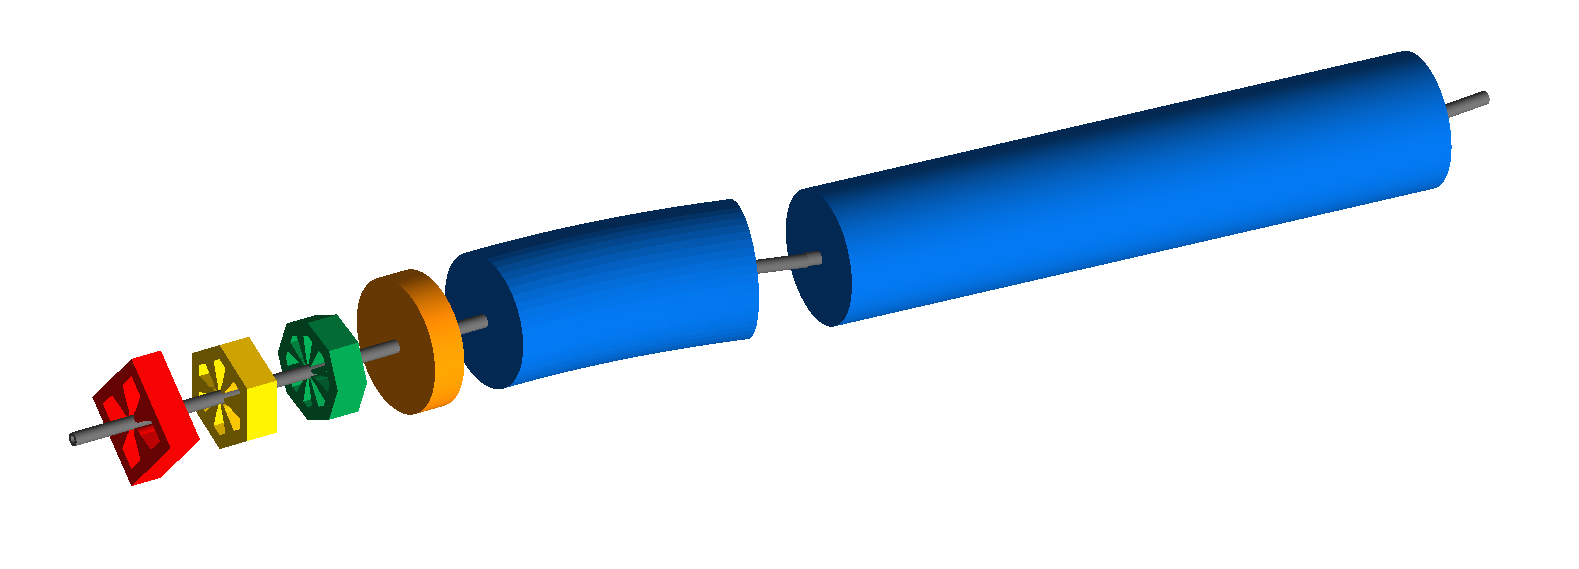
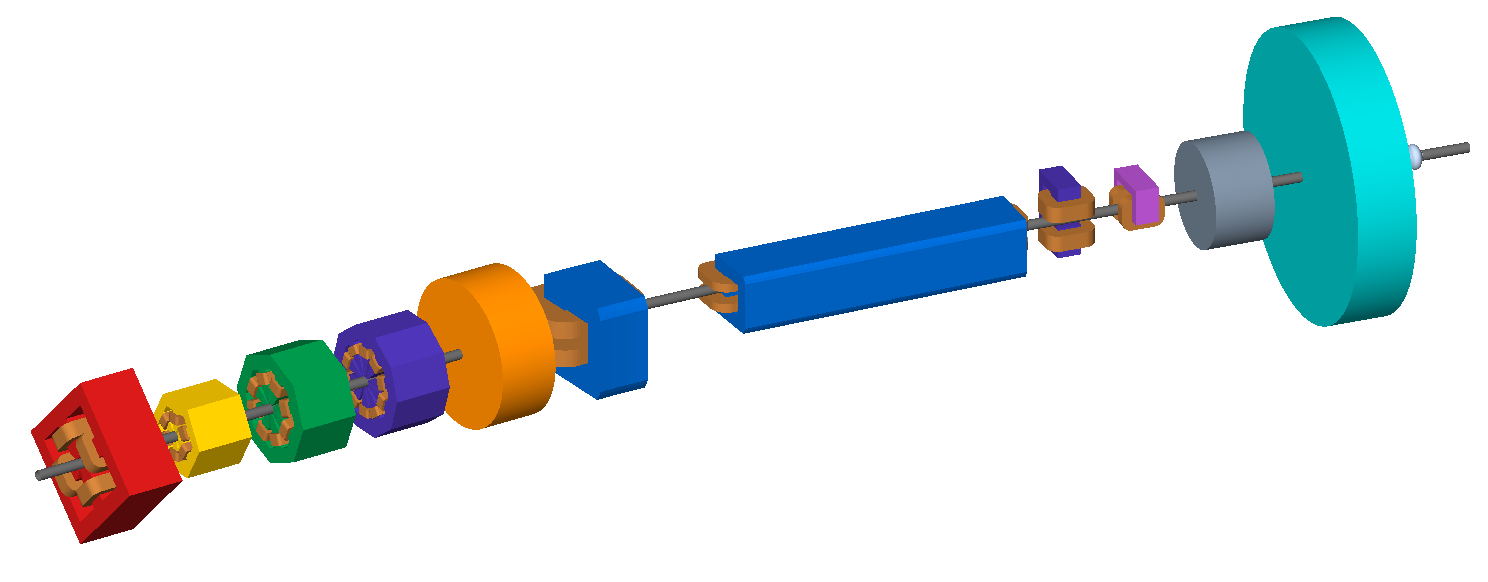
Update out of date images in manual given geometry changes.
Former-commit-id: ddec00dc49e6ac9d63db9aaa6c2def5b07b6e5d4

Changed region(s): [[0.0, 0.0299, 0.9892, 0.9262]]

diff --git a/examples/features/geometry/4_magnets/4_magnets.rst b/examples/features/geometry/4_magnets/4_magnets.rst
@@ -108,6 +108,9 @@ LHC cyrogenic magnet for dipoles and quadrupoles.  Given the two beam nature
 of the LHC, the magnet is either offset to the right or two the left dictating
 the 'active' beam pipe.
 
+.. figure:: 7_lhcleft.png
+	    :width: 70%
+
 8_none.gmad
 -----------
 
